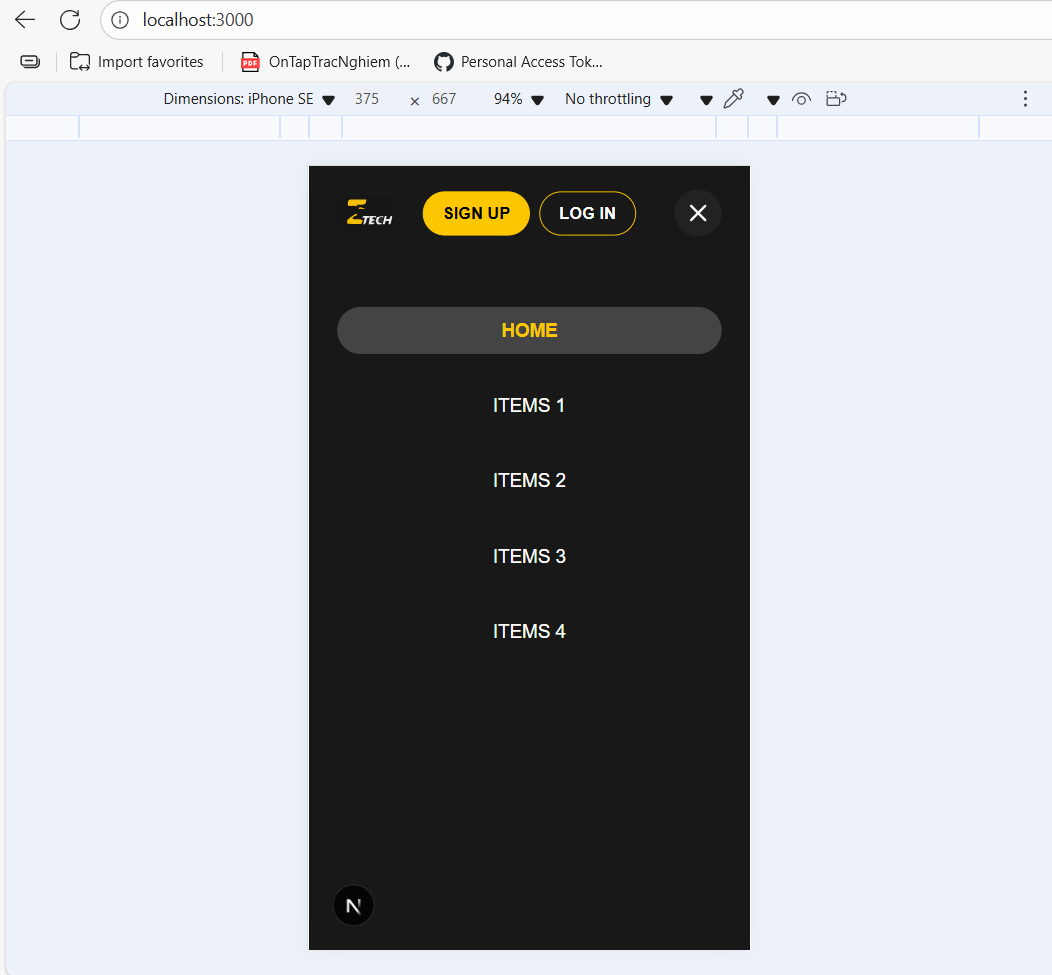
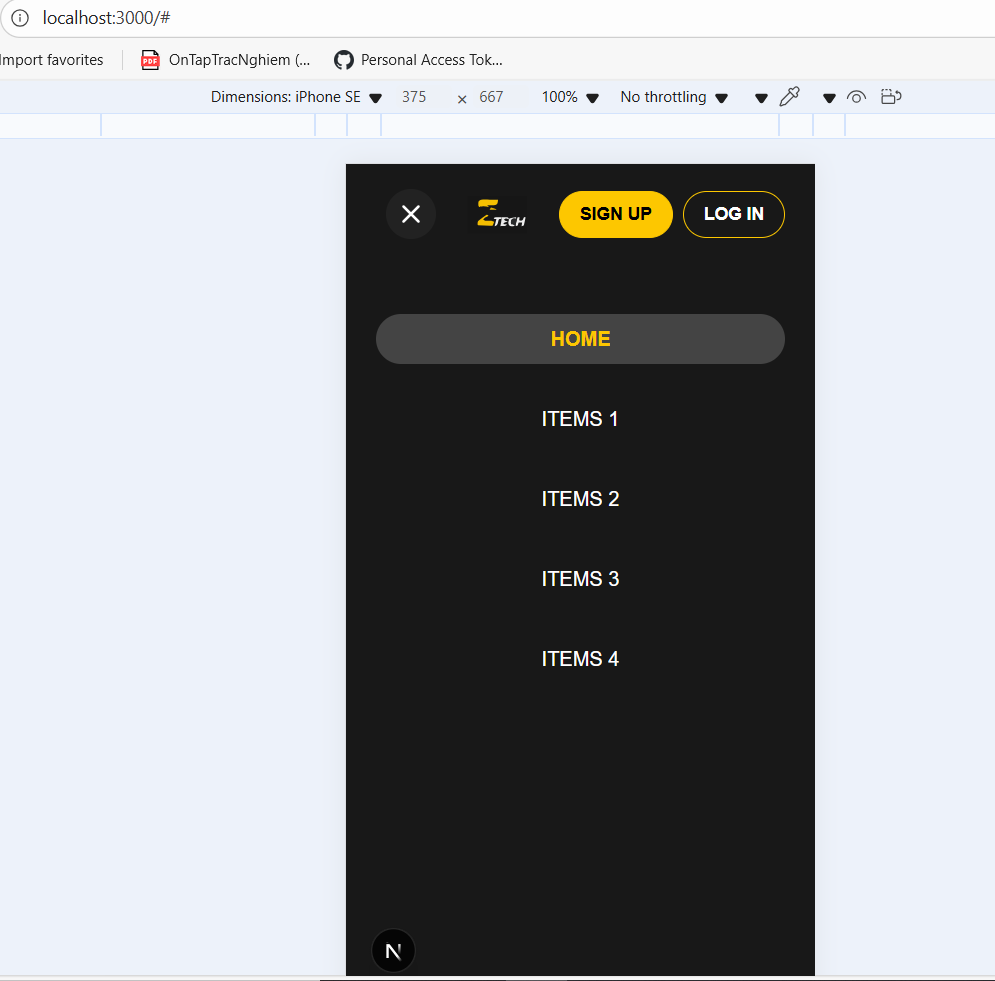
adjust some css

diff --git a/src/components/Background.tsx b/src/components/Background.tsx
@@ -3,8 +3,8 @@ export default function Background() {
   return (
     <div className="w-full bg-[#222] rounded-lg flex flex-nowrap sm:flex-wrap items-center justify-start sm:justify-center gap-3 py-4 px-2 sm:px-8 overflow-x-auto sm:overflow-x-visible scrollbar-hide">
       {/* Free to Earn */}
-      <a href="#" className="flex flex-col items-center gap-2 w-28 sm:w-32">
-        <span className="block">
+      <a href="#" className="flex flex-col items-center gap-2 w-28 sm:w-32 relative group transition">
+        <span className="block rounded-lg border-4 border-transparent transition group-hover:border-yellow-400">
           {/* SVG icon placeholder */}
           {/* <svg width="40" height="40" viewBox="0 0 40 40" fill="none">
             <circle cx="20" cy="20" r="18" stroke="#FFD600" strokeWidth="2" />
@@ -12,13 +12,13 @@ export default function Background() {
               💰
             </text>
           </svg> */}
-          <Image src="/freetoearn.png" alt="Free to Earn" width={80} height={80} />
+          <Image src="/freetoearn.png" alt="Free to Earn" width={60} height={60} />
         </span>
-        <span className="text-xs sm:text-sm text-white font-semibold">FREE TO EARN</span>
+        <span className="text-xs sm:text-sm text-white">FREE TO EARN</span>
       </a>
       {/* Ranking */}
-      <a href="#" className="flex flex-col items-center gap-2 w-28 sm:w-32">
-        <span className="block">
+      <a href="#" className="flex flex-col items-center gap-2 w-28 sm:w-32 relative group transition">
+        <span className="block rounded-lg border-4 border-transparent transition group-hover:border-yellow-400">
           {/* <svg width="40" height="40" viewBox="0 0 40 40" fill="none">
             <rect x="10" y="20" width="20" height="10" fill="#FFD600" />
             <circle cx="30" cy="15" r="5" fill="#FFD600" />
@@ -27,33 +27,33 @@ export default function Background() {
           </svg> */}
           <Image src="/ranking.png" alt="Ranking" width={60} height={60} />
         </span>
-        <span className="text-xs sm:text-sm text-white font-semibold">RANKING</span>
+        <span className="text-xs sm:text-sm text-white">RANKING</span>
       </a>
       {/* Video-NFT */}
-      <a href="#" className="flex flex-col items-center gap-2 w-28 sm:w-32">
-        <span className="block">
+      <a href="#" className="flex flex-col items-center gap-2 w-28 sm:w-32 relative group transition">
+        <span className="block rounded-lg border-4 border-transparent transition group-hover:border-yellow-400">
           {/* <svg width="40" height="40" viewBox="0 0 40 40" fill="none">
             <circle cx="20" cy="20" r="18" stroke="#FFD600" strokeWidth="2" />
             <polygon points="16,14 28,20 16,26" fill="#FFD600" />
           </svg> */}
           <Image src="/videonft.png" alt="Video NFT" width={60} height={60} />
         </span>
-        <span className="text-xs sm:text-sm text-white font-semibold">VIDEO-NFT</span>
+        <span className="text-xs sm:text-sm text-white">VIDEO-NFT</span>
       </a>
       {/* How to Buy */}
-      <a href="#" className="flex flex-col items-center gap-2 w-28 sm:w-32">
-        <span className="block">
+      <a href="#" className="flex flex-col items-center gap-2 w-28 sm:w-32 relative group transition">
+        <span className="block rounded-lg border-4 border-transparent transition group-hover:border-yellow-400">
           {/* <svg width="40" height="40" viewBox="0 0 40 40" fill="none">
             <path d="M10 30 L30 10" stroke="#FFD600" strokeWidth="2" />
             <path d="M20 10 L30 20" stroke="#FFD600" strokeWidth="2" />
           </svg> */}
           <Image src="/howtobuy.png" alt="How to Buy" width={60} height={60} />
         </span>
-        <span className="text-xs sm:text-sm text-white font-semibold">HOW TO BUY</span>
+        <span className="text-xs sm:text-sm text-white">HOW TO BUY</span>
       </a>
       {/* New NEFTS */}
-      <a href="#" className="flex flex-col items-center gap-2 w-28 sm:w-32 relative">
-        <span className="block">
+      <a href="#" className="flex flex-col items-center gap-2 w-28 sm:w-32 relative group transition">
+        <span className="block rounded-lg border-4 border-transparent transition group-hover:border-yellow-400">
           {/* <svg width="40" height="40" viewBox="0 0 40 40" fill="none">
             <circle cx="20" cy="20" r="18" stroke="#FFD600" strokeWidth="2" />
             <text x="20" y="25" textAnchor="middle" fontSize="10" fill="#FFD600">
@@ -63,17 +63,17 @@ export default function Background() {
           <Image src="/newnfts.png" alt="New NEFTS" width={60} height={60} />
           {/* <span className="absolute -top-2 -right-2 bg-red-600 text-white text-[10px] px-2 py-0.5 rounded-full font-bold">NEW</span> */}
         </span>
-        <span className="text-xs sm:text-sm text-white font-semibold">NEW NEFTS</span>
+        <span className="text-xs sm:text-sm text-white">NEW NEFTS</span>
       </a>
       {/* Roadmap */}
-      <a href="#" className="flex flex-col items-center gap-2 w-28 sm:w-32">
-        <span className="block">
+      <a href="#" className="flex flex-col items-center gap-2 w-28 sm:w-32 relative group transition">
+        <span className="block rounded-lg border-4 border-transparent transition group-hover:border-yellow-400">
           {/* <svg width="40" height="40" viewBox="0 0 40 40" fill="none">
             <path d="M10 20 Q20 10 30 20 Q20 30 10 20" stroke="#FFD600" strokeWidth="2" fill="none" />
           </svg> */}
           <Image src="/roadmaps.png" alt="Roadmaps" width={60} height={60} />
         </span>
-        <span className="text-xs sm:text-sm text-white font-semibold">ROADMAPS</span>
+        <span className="text-xs sm:text-sm text-white">ROADMAPS</span>
       </a>
     </div>
   );

diff --git a/src/components/Header.tsx b/src/components/Header.tsx
@@ -4,6 +4,7 @@ import Image from "next/image";
 
 export default function Header() {
   const [menuOpen, setMenuOpen] = useState(false);
+  const [activeBtn, setActiveBtn] = useState<"signup" | "login">("signup");
 
   return (
     <header className="w-full py-2 flex items-center bg-[#181818] text-white px-4 sm:px-8 relative">
@@ -29,17 +30,6 @@ export default function Header() {
       {menuOpen && (
         <div className="fixed inset-0 z-50 bg-[#181818] flex flex-col px-6 py-4">
           <div className="flex items-center justify-between mb-6">
-            <div className="flex items-center gap-2">
-              <Image src="/logo.svg" alt="Logo" width={56} height={56} className="h-12 w-12" />
-            </div>
-            <div className="flex gap-2">
-              <a href="#" className="bg-yellow-400 text-black px-4 py-2 rounded-full font-bold border border-yellow-400 hover:bg-yellow-500 transition text-sm">
-                SIGN UP
-              </a>
-              <a href="#" className="bg-[#181818] text-white px-4 py-2 rounded-full font-bold border border-yellow-400 hover:bg-yellow-500 transition text-sm">
-                LOG IN
-              </a>
-            </div>
             <button
               className="ml-2 flex items-center justify-center w-10 h-10 rounded-full bg-[#222] text-white"
               onClick={() => setMenuOpen(false)}
@@ -49,6 +39,17 @@ export default function Header() {
                 <path stroke="currentColor" strokeWidth="2" strokeLinecap="round" d="M6 6l12 12M18 6l-12 12" />
               </svg>
             </button>
+            <div className="flex items-center gap-2">
+              <Image src="/logo.png" alt="Logo" width={56} height={56} className="h-12 w-12" />
+            </div>
+            <div className="flex gap-2">
+              <a href="#" className="bg-yellow-400 text-black px-4 py-2 rounded-full font-bold border border-yellow-400 hover:bg-yellow-500 transition text-sm">
+                SIGN UP
+              </a>
+              <a href="#" className="bg-[#181818] text-white px-4 py-2 rounded-full font-bold border border-yellow-400 hover:bg-yellow-500 transition text-sm">
+                LOG IN
+              </a>
+            </div>
           </div>
           <nav className="flex flex-col items-center gap-6 mt-8">
             <a href="#" className="bg-[#444] text-yellow-400 px-4 py-2 rounded-full font-bold w-full text-center">
@@ -70,8 +71,8 @@ export default function Header() {
         </div>
       )}
       {/* Logo */}
-      <div className="flex-shrink-0 mr-4">
-        <Image src="/logo.svg" alt="Logo" width={80} height={80} className="h-16 w-16" />
+      <div className="flex-shrink-0 mr-4 group cursor-pointer transition">
+        <Image src="/logo.png" alt="Logo" width={80} height={80} className="h-16 w-16 transition group-hover:scale-105" />
       </div>
       {/* Desktop Menu */}
       <nav className="flex-1 hidden md:flex items-center gap-2 sm:gap-6">
@@ -91,12 +92,33 @@ export default function Header() {
           ITEMS4
         </a>
       </nav>
-      {/* Signup & Login */}
       <div className="flex gap-2 sm:gap-4">
-        <a href="#" className="bg-yellow-400 text-black px-5 py-2 rounded-full font-bold border border-yellow-400 hover:bg-yellow-500 transition">
+        {/* Primary: SIGN UP */}
+        <a
+          href="#"
+          className={`px-5 py-2 rounded-full font-bold border border-yellow-400 shadow transition
+      ${
+        activeBtn === "signup"
+          ? "bg-yellow-400 text-black hover:bg-yellow-500 focus:bg-yellow-500"
+          : "bg-[#181818] text-white hover:bg-yellow-400 hover:text-black focus:bg-yellow-400 focus:text-black"
+      }`}
+          onClick={() => setActiveBtn("signup")}
+          tabIndex={0}
+        >
           SIGN UP
         </a>
-        <a href="#" className="bg-[#181818] text-white px-5 py-2 rounded-full font-bold border border-yellow-400 hover:bg-yellow-500 transition">
+        {/* Secondary: LOG IN */}
+        <a
+          href="#"
+          className={`px-5 py-2 rounded-full font-bold border border-yellow-400 transition
+      ${
+        activeBtn === "login"
+          ? "bg-yellow-400 text-black hover:bg-yellow-500 focus:bg-yellow-500"
+          : "bg-[#181818] text-white hover:bg-yellow-400 hover:text-black focus:bg-yellow-400 focus:text-black"
+      }`}
+          onClick={() => setActiveBtn("login")}
+          tabIndex={0}
+        >
           LOG IN
         </a>
       </div>

diff --git a/src/components/Body1.tsx b/src/components/Body1.tsx
@@ -34,13 +34,17 @@ export default function Body1() {
     <section className="w-full py-8 px-2 sm:px-8 rounded-lg">
       {/* New NFT Collections */}
       <div className="flex items-center justify-between mb-4">
-        <h2 className="text-lg sm:text-xl font-bold text-yellow-400 italic">NEW NFT COLLECTIONS</h2>
+        <h2 className="text-lg sm:text-xl font-bold text-[#FFC700] italic">NEW NFT COLLECTIONS</h2>
         <div className="flex gap-2 ml-2">
-          <button className="bg-[#444] text-white rounded-md w-8 h-8 flex items-center justify-center" onClick={handlePrev} disabled={startIndex === 0}>
+          <button
+            className="bg-[#383A42] text-[#FFFFFF99] rounded-md w-8 h-8 flex items-center justify-center"
+            onClick={handlePrev}
+            disabled={startIndex === 0}
+          >
             &lt;
           </button>
           <button
-            className="bg-[#444] text-white rounded-md w-8 h-8 flex items-center justify-center"
+            className="bg-[#383A42] text-[#FFFFFF99] rounded-md w-8 h-8 flex items-center justify-center"
             onClick={handleNext}
             disabled={startIndex >= images.length - visibleCount}
           >
@@ -67,10 +71,10 @@ export default function Body1() {
         {/* Block 1: NFT Drops Calendar */}
         <div className="flex flex-col w-full md:basis-[45%]">
           <div className="flex justify-between items-center mb-3">
-            <h3 className="text-yellow-400 font-bold text-base italic">NFT DROPS CALENDAR</h3>
+            <h3 className="text-[#FFC700] font-bold text-base italic">NFT DROPS CALENDAR</h3>
             <div className="flex gap-2">
-              <button className="bg-[#444] text-white rounded-md w-7 h-7 flex items-center justify-center text-xs">&lt;</button>
-              <button className="bg-[#444] text-white rounded-md w-7 h-7 flex items-center justify-center text-xs">&gt;</button>
+              <button className="bg-[#383A42] text-[#FFFFFF99] rounded-md w-7 h-7 flex items-center justify-center text-xs">&lt;</button>
+              <button className="bg-[#383A42] text-[#FFFFFF99] rounded-md w-7 h-7 flex items-center justify-center text-xs">&gt;</button>
             </div>
           </div>
           <div className="overflow-hidden rounded-lg">
@@ -80,14 +84,14 @@ export default function Body1() {
         <div className="flex w-full md:basis-[55%] gap-4">
           {/* Block 2: Trending */}
           <div className="flex flex-col w-1/2">
-            <h3 className="text-yellow-400 font-bold text-base mb-4 italic">TRENDING</h3>
+            <h3 className="text-[#FFC700] font-bold text-base mb-4 italic">TRENDING</h3>
             <div className="overflow-hidden rounded-lg">
               <Image src="/image1.svg" alt="Trending" width={300} height={150} className="w-full h-auto md:h-[150px] object-cover" />
             </div>
           </div>
           {/* Block 3: Top Collection */}
           <div className="flex flex-col w-1/2">
-            <h3 className="text-yellow-400 font-bold text-base mb-4 italic">TOP COLLECTION</h3>
+            <h3 className="text-[#FFC700] font-bold text-base mb-4 italic">TOP COLLECTION</h3>
             <div className="overflow-hidden rounded-lg">
               <Image src="/image2.svg" alt="Top Collection" width={300} height={150} className="w-full h-auto md:h-[150px] object-cover" />
             </div>

diff --git a/src/components/Body2.tsx b/src/components/Body2.tsx
@@ -1,11 +1,13 @@
+import Image from "next/image";
+
 export default function Body2() {
   return (
     <section className="w-full py-6 px-2 sm:px-8 rounded-lg mt-6">
       <div className="grid grid-cols-2 sm:grid-cols-4 gap-6 sm:gap-8">
         {/* About Us */}
         <div>
-          <h3 className="text-white font-bold text-base mb-3">ABOUT US</h3>
-          <ul className="space-y-1 text-gray-200 text-sm">
+          <h3 className="text-white font-bold text-base mb-3 italic">ABOUT US</h3>
+          <ul className="space-y-1 text-[#D2D2D2] text-sm">
             <li>Careers</li>
             <li>Company Details</li>
             <li>Terms & Conditions</li>
@@ -16,8 +18,8 @@ export default function Body2() {
         </div>
         {/* Products */}
         <div>
-          <h3 className="text-white font-bold text-base mb-3">PRODUCTS</h3>
-          <ul className="space-y-1 text-gray-200 text-sm">
+          <h3 className="text-white font-bold text-base mb-3 italic">PRODUCTS</h3>
+          <ul className="space-y-1 text-[#D2D2D2] text-sm">
             <li>NFT Marketplace</li>
             <li>Slingshot</li>
             <li>Swaps</li>
@@ -28,8 +30,8 @@ export default function Body2() {
         </div>
         {/* Resources */}
         <div>
-          <h3 className="text-white font-bold text-base mb-3">RESOURCES</h3>
-          <ul className="space-y-1 text-gray-200 text-sm">
+          <h3 className="text-white font-bold text-base mb-3 italic">RESOURCES</h3>
+          <ul className="space-y-1 text-[#D2D2D2] text-sm">
             <li>Support</li>
             <li>API</li>
             <li>Feature Requests</li>
@@ -39,16 +41,17 @@ export default function Body2() {
         </div>
         {/* Contact Us */}
         <div>
-          <h3 className="text-white font-bold text-base mb-3">CONTACT US</h3>
-          <ul className="space-y-1 text-gray-200 text-sm mb-4">
+          <h3 className="text-white font-bold text-base mb-3 italic">CONTACT US</h3>
+          <ul className="space-y-1 text-[#D2D2D2] text-sm mb-4">
             <li>support@tech.email</li>
             <li>affiliate@tech.com</li>
           </ul>
-          <button className="flex items-center gap-2 bg-[#222] text-white px-4 py-2 rounded-lg font-bold shadow hover:bg-[#333]">
-            <svg width="24" height="24" fill="none" viewBox="0 0 24 24">
+          <button className="flex items-center gap-2 bg-[#383A42] text-white px-4 py-2 rounded-lg font-bold shadow hover:bg-[#333]">
+            {/* <svg width="24" height="24" fill="none" viewBox="0 0 24 24">
               <rect x="4" y="6" width="16" height="12" rx="3" fill="#2DD4BF" />
               <rect x="8" y="10" width="8" height="4" rx="1" fill="#fff" />
-            </svg>
+            </svg> */}
+            <Image src="/phone.png" alt="" width={60} height={60} />
             Install App
           </button>
         </div>

diff --git a/src/components/Slider.tsx b/src/components/Slider.tsx
@@ -2,7 +2,7 @@ import Image from "next/image";
 
 export default function Slider() {
   return (
-    <div className="w-full h-[130px] sm:h-[415px] bg-gray-200 flex items-center justify-center rounded-lg overflow-hidden">
+    <div className="w-full h-[130px] sm:h-[415px] bg-gray-200 flex items-center justify-center overflow-hidden">
       <div className="relative w-full h-full">
         <Image src="/slider.svg" alt="Slider" fill className="object-cover" sizes="(max-width: 640px) 100vw, 100vw" />
       </div>
